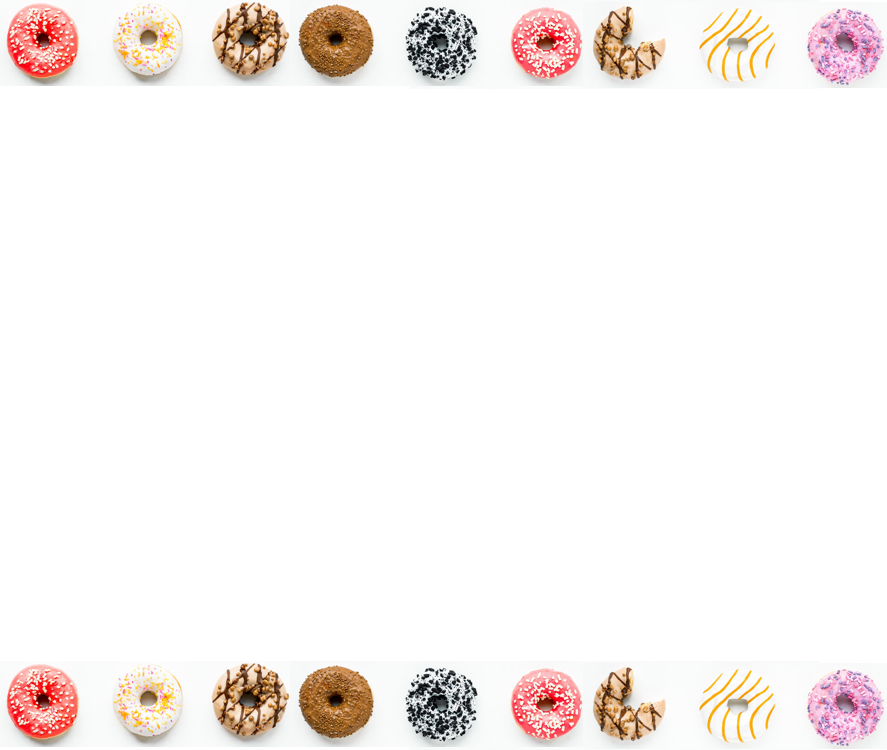
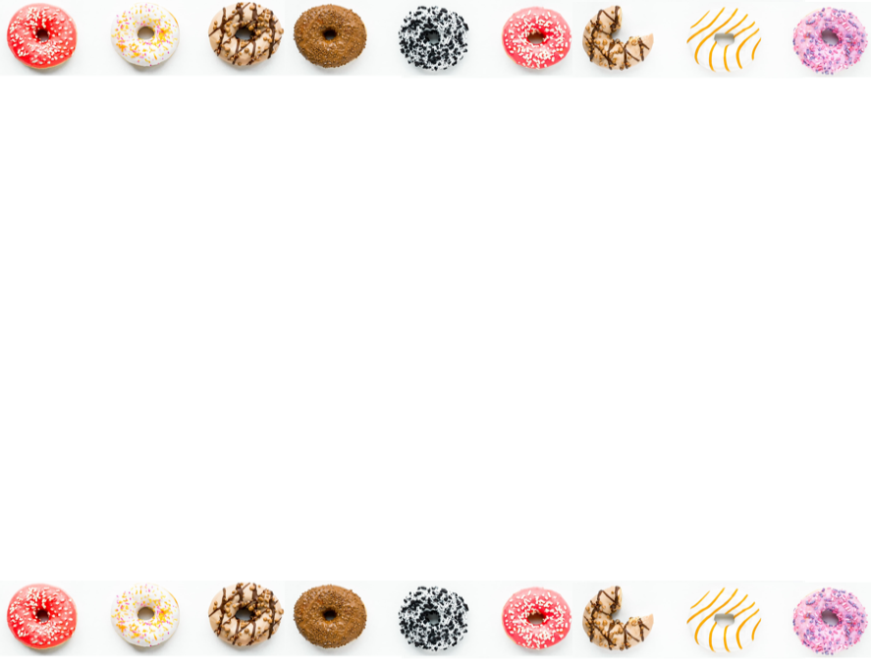
Updated

diff --git a/index.html b/index.html
@@ -9,67 +9,81 @@
     <link rel="stylesheet" href="https://cdnjs.cloudflare.com/ajax/libs/font-awesome/5.15.3/css/all.min.css" integrity="sha512-iBBXm8fW90+nuLcSKlbmrPcLa0OT92xO1BIsZ+ywDWZCvqsWgccV3gFoRBv0z+8dLJgyAHIhR35VZc2oM/gI1w==" crossorigin="anonymous" referrerpolicy="no-referrer" />
   </head>
   <body class="background" background="src/images/DonutBorder.png">
+    
     <h1> Delicious Donut Depot </h1>
     
-    <div id="mySidebar" class="sidebar">
-        <a href="javascript:void(0)" class="closebtn" onclick="closeNav()">&times;</a>
-        <a href="/index.html">Home</a>
-        <a href="/About.html">About</a>
-        <a href="/Inspiration.html">Inspiration</a>
-        <a href="/Creator.html">Creator</a>
-      </div>
-      <div id="main">
-        <button class="openbtn" onclick="openNav()">&#9776; </button>
-      </div>
-      <h2>Welcome to the donut shop!</h2>
-      <p><br /> Today we are going to be making donuts, and lots of them! </p> 
-      <p>To make donuts, click the Bake button below. (One donut per click to start)</p>
-      <p>As you make donuts, you can use them as currency to buy advantages.</p>
-      <p>Be mindful, your donuts will begin to spoil if you keep too many for too long. </p>
-      <p>There are two advantages that can be purchased.</p>
-      <ol>
-        <li>The Donut Auto Clicker</li>
-        <ul>
+      <div id="mySidebar" class="sidebar">
+          <a href="javascript:void(0)" class="closebtn" onclick="closeNav()">&times;</a>
+          <a href="/index.html">Home</a>
+          <a href="/About.html">About</a>
+          <a href="/Inspiration.html">Inspiration</a>
+          <a href="/Creator.html">Creator</a>
+        </div>
+        <div id="main">
           <br />
-          <li>This automatically clicks the Donut button once per second to help gain extra donuts.</li>
           <br />
-        </ul>
-        <li>The Donut Multiplier</li>
-        <ul>
-          <br />
-          <li>This increases the number of donuts recieved per click of the donut button.</li>
-        </ul>
-      </ol>
+          <button class="openbtn" onclick="openNav()">&#9776; </button>
+        </div>
 
-
-      <div class="container" >
-        <section>
-          <p  id="donutsMade" name="donutsMade">Donuts: 0.00</p>
-          <button class="fas fa-dot-circle donutButton"> Bake!</button>
-        </section>
-  
-        <section>
-          <p id="autoClicker" name="autoClicker" >Donut Auto Clickers Owned: 0</p>
-          <button class="buyAutoButton">Buy Auto Clicker</button>
-          <p id="priceForAuto" name="priceForAuto">Price: 100</p>
-        </section>
-  
-        <section>
-          <p id="clickMultiplier" name="clickMultiplier" >Donuts Per Click: 1</p>
-          <button class="buyclickMultiplier">Buy Donut Multiplier</button>
-          <p id="priceForMultiplier" name="priceForMultiplier">Price: 100</p>
-        </section>
-        <br />
-      </div>
+    <div class="body">
       
-      <button class="resetButton">Reset Game</button>
+        <h2>Welcome to the donut shop!</h2>
+        <p><br /> Today we are going to be making donuts, and lots of them! </p> 
+        <p>To make donuts, click the Bake button below. (One donut per click to start)</p>
+        <p>As you make donuts, you can use them as currency to buy advantages.</p>
+        <p>Be mindful, your donuts will begin to spoil if you keep too many for too long. </p>
+        <p>There are two advantages that can be purchased.</p>
+        <ol>
+          <li>The Donut Auto Clicker</li>
+          <ul>
+            <br />
+            <li>This automatically clicks the Donut button once per second to help gain extra donuts.</li>
+            <br />
+          </ul>
+          <li>The Donut Multiplier</li>
+          <ul>
+            <br />
+            <li>This increases the number of donuts recieved per click of the donut button.</li>
+          </ul>
+        </ol>
+  
+  
+        <div class="container" >
+          <section>
+            <p  id="donutsMade" name="donutsMade">Donuts: 0.00</p>
+            <button class="fas fa-dot-circle donutButton"> Bake!</button>
+          </section>
+    
+          <section>
+            <p id="autoClicker" name="autoClicker" >Donut Auto Clickers Owned: 0</p>
+            <button class="buyAutoButton">Buy Auto Clicker</button>
+            <p id="priceForAuto" name="priceForAuto">Price: 100 donuts</p>
+          </section>
+    
+          <section>
+            <p id="clickMultiplier" name="clickMultiplier" >Donuts Per Click: 1</p>
+            <button class="buyclickMultiplier">Buy Donut Multiplier</button>
+            <p id="priceForMultiplier" name="priceForMultiplier">Price: 100 donuts</p>
+          </section>
+          <br />
+        </div>
+        
+        <button class="resetButton">Reset Game</button>
+        <Footer>
+          <br />
+          <br />
+          <br />
+          <br />
+          <br />
+          &copy; Delicious Donut Depot 2021
+        </Footer>
+      
+      <script src="/src/js/DonutShop.js"></script>
+      <script src="/src/js/app.js"></script>
+      <script src="/src/js/nav.js"></script>
+    </div>
     
     
-    <script src="/src/js/DonutShop.js"></script>
-    <script src="/src/js/app.js"></script>
   </body>
-<Footer>
-  <br />
-  &copy; Fred the Baker Baking Company 2021
-</Footer>
+
 </html>

diff --git a/About.html b/About.html
@@ -21,23 +21,25 @@
         <button class="openbtn" onclick="openNav()">&#9776; </button>
       </div>
 
-      <h2>Join Us Today!</h2>
-      <p>Today, my little shop is run entirely online. Every donut is a virtually handmade and delivered to</p>
-      <p>you. You can order as many donuts as you like and we will always provide you with excellent</p>
-      <p>service and deliciousness in every <strong>Byte</strong>.</p>
+      <div class="body">
+        <h2>Join Us Today!</h2>
+        <p>Today, my little shop is run entirely online. Every donut is a virtually handmade and delivered to</p>
+        <p>you. You can order as many donuts as you like and we will always provide you with excellent</p>
+        <p>service and deliciousness in every <strong>Byte</strong>.</p>
 
-      <h2><br/>About the original owner</h2>
-      <h4><strong>SSG. Fredrick Davis</strong></h4>
-      <p>This shop hasn't always been virtual. Up until recently, the <em>Delicious Donut Depot</em> was owned by</p>
-      <p>a retired US Army Staff Sergeant named Fred Davis. He ran the shop single-handedly in a small</p>
-      <p>town in Georgia. Once he decided that he was too old to be slinging the best donuts in the</p>
-      <p>world, he knew it was time to pass his business on to a fellow Veteran. SSG. Davis gave me his</p>
-      <p>shop under the stipulation that I bring it into the virtual world.</p>
-      <p><br /><strong>So here we are...</strong></p>
+        <h2><br/>About the original owner</h2>
+        <h4><strong>SSG. Fredrick Davis</strong></h4>
+        <p>This shop hasn't always been virtual. Up until recently, the <em>Delicious Donut Depot</em> was owned by</p>
+        <p>a retired US Army Staff Sergeant named Fred Davis. He ran the shop single-handedly in a small</p>
+        <p>town in Georgia. Once he decided that he was too old to be slinging the best donuts in the</p>
+        <p>world, he knew it was time to pass his business on to a fellow Veteran. SSG. Davis gave me his</p>
+        <p>shop under the stipulation that I bring it into the virtual world.</p>
+        <p><br /><strong>So here we are...</strong></p>
+      </div>
+      
 
 
-    <script src="/src/js/DonutShop.js"></script>
-    <script src="/src/js/app.js"></script>
+      <script src="/src/js/nav.js"></script>
   </body>
 
 </html>

diff --git a/src/js/app.js b/src/js/app.js
@@ -1,14 +1,3 @@
-/* Set the width of the sidebar to 250px and the left margin of the page content to 250px */
-function openNav() {
-    document.getElementById("mySidebar").style.width = "250px";
-    document.getElementById("main").style.marginLeft = "250px";
-  }
-  
-  /* Set the width of the sidebar to 0 and the left margin of the page content to 0 */
-  function closeNav() {
-    document.getElementById("mySidebar").style.width = "0";
-    document.getElementById("main").style.marginLeft = "0";
-  }
 
   const buyDonutBtn = document.getElementsByClassName("donutButton")[0];
 
@@ -41,14 +30,14 @@ function openNav() {
   buyAutoClickBtn.addEventListener("click", function(){
     myDonut.addAutoClicker();
     currentAutoClickers.innerText ="Donut Auto Clickers Owned: " + myDonut.getAutoClickerCount();
-    currentAutoClickersPrice.innerText = "Price: " + myDonut.priceForAuto;
+    currentAutoClickersPrice.innerText = "Price: " + myDonut.priceForAuto + " donuts";
     myDonut.startClickerInterval();
   });
 
   buyDonutMultiplierBtn.addEventListener("click", function(){
     myDonut.addDonutMultiplier();
     currentDonutMultipliers.innerText ="Donuts Per Click: " + myDonut.donutsEarned;
-    currentDonutMultipliersPrice.innerText = "Price: " + myDonut.priceForMultiply;
+    currentDonutMultipliersPrice.innerText = "Price: " + myDonut.priceForMultiply + " donuts";
   });
 
   resetGameBtn.addEventListener("click", function(){
@@ -59,9 +48,9 @@ function openNav() {
   function updateDonutCount(){
     currentDonuts.innerText ="Donuts: " + myDonut.getDonutCount();
     currentAutoClickers.innerText ="Donut Auto Clickers Owned: " + myDonut.getAutoClickerCount();
-    currentAutoClickersPrice.innerText = "Price: " + myDonut.priceForAuto;
+    currentAutoClickersPrice.innerText = "Price: " + myDonut.priceForAuto + " donuts";
     currentDonutMultipliers.innerText ="Donuts Per Click: " + myDonut.donutsEarned;
-    currentDonutMultipliersPrice.innerText = "Price: " + myDonut.priceForMultiply;
+    currentDonutMultipliersPrice.innerText = "Price: " + myDonut.priceForMultiply + " donuts";
     checkAutoClickerBtn();
     checkMultiplierClickerBtn();
   }

diff --git a/src/css/style.css b/src/css/style.css
@@ -79,11 +79,20 @@
     -webkit-text-stroke-width: 1px;
     -webkit-text-stroke-color: rgb(0, 0, 0);
   }
+/* 
+  html {
+    background: url(src/images/DonutBorder.png) no-repeat center center fixed; 
+    -webkit-background-size: cover;
+    -moz-background-size: cover;
+    -o-background-size: cover;
+    background-size: cover;
+    
+  } */
 
-  body{
-    padding-top: 30px;
+    .body{
+    /* padding-top: 30px; */
     font-family: Arial;
-    width: 690px;
+    width: 609px;
     margin: auto;
     text-align: center;
     text-decoration: none;
@@ -96,6 +105,7 @@
     -webkit-text-stroke-width: 2px;
     -webkit-text-stroke-color: black;
     background-color: rgba(0, 0, 0, 0.315);
+    margin-top: 40px;
     width: 500px;
     font-size: 40px;
     border-radius: 5px;
@@ -145,6 +155,14 @@
     cursor:pointer;
   }
 
+  .donutButton:disabled, .buyAutoButton:disabled, .buyclickMultiplier:disabled, .resetButton:disabled {
+    background: rgba(196, 192, 192, 0.966);
+    color: rgba(255, 255, 255, 0.61);
+    margin: auto;
+    border-radius: 5px;
+    cursor: unset;
+  }
+
   footer {
     margin: auto;
     padding-top: 15px;
@@ -157,13 +175,13 @@
     background: radial-gradient(rgb(0 0 0 / 87%), rgba(248, 29, 29, 0.678),  transparent);*/
     /*background: linear-gradient(rgb(255 0 0 / 87%), rgb(255 165 0 / 87%), rgb(0 128 0 / 87%), rgb(0 0 255 / 87%), rgb(128 0 128 / 87%), transparent);*/
     color: rgb(0, 0, 0);
-    width: 80px;
+    width: 200px;
     text-align: center;
     padding-left: 10px; 
   }
   .background{
-    background-size: 60%;
-
+    background-size: 100%;
+    height: 975px;
   }
 
    .container{
@@ -177,7 +195,7 @@
   }
 
 #donutsMade, #autoClicker, #priceForAuto, #clickMultiplier, #priceForMultiplier{
-  padding-right: 8px;
+  padding-right: 18px;
   padding-left: 8px;
 }
 

diff --git a/Creator.html b/Creator.html
@@ -21,16 +21,17 @@
         <button class="openbtn" onclick="openNav()">&#9776; </button>
       </div>
 
-      <h2>Joshua Harper(Developer)</h2>
+      <div class="body">
+        <h2>Joshua Harper(Developer)</h2>
 
-      <h3>- Creator of this Game -</h3>
+        <h3>- Creator of this Game -</h3>
 
-      <p>Hello, and welcome to my game. I hope you have enjoyed yourself.</p>
-      <p>My name, of course, is Joshua Harper. I am software developer, aspiring to learn as much as I</p>
-      <p>can and perfect my craft. If you have enjoyed my game and would like to contact me, please do</p>
-      <p>so with any of the below methods.<br /><br />Thank You Very Much!</p>
+        <p>Hello, and welcome to my game. I hope you have enjoyed yourself.</p>
+        <p>My name, of course, is Joshua Harper. I am software developer, aspiring to learn as much as I</p>
+        <p>can and perfect my craft. If you have enjoyed my game and would like to contact me, please do</p>
+        <p>so with any of the below methods.<br /><br />Thank You Very Much!</p>
 
-      <h3><br /><br /><br /><br /><br />Contact Information</h3>
+        <h3><br /><br /><br />Contact Information</h3>
         <p>Phone Number: (216) 849-0560</p>
         <a href="mailto:joshua.b.harper7@gmail.com"> joshua.b.harper7@gmail.com</a>
         <h3>Links</h3>
@@ -39,10 +40,12 @@
             <a href="https://www.linkedin.com/in/joshua-b-harper7/" target="_blank"><img src="src/images/linkedinPNG.png" width="50px" /></a>
             <a href="https://joshuabharper7.github.io/" target="_blank"><img src="src/images/Headshot.jpg" width="50px" /></a>
         </div>
+      </div>
+
+      
 
 
-    <script src="/src/js/DonutShop.js"></script>
-    <script src="/src/js/app.js"></script>
+      <script src="/src/js/nav.js"></script>
   </body>
 
 </html>

diff --git a/Inspiration.html b/Inspiration.html
@@ -21,15 +21,18 @@
         <button class="openbtn" onclick="openNav()">&#9776; </button>
       </div>
 
-      <h2><em>Inspiration Behind The Donut</em></h2>
+      <div class="body">
+        <h2><em>Inspiration Behind The Donut</em></h2>
 
-      <h3><strong><a href="https://orteil.dashnet.org/experiments/cookie/" target= "_blank">Cookie Clicker Classic</a></strong></h3>
-      <p>The inspiration behind this Addictive game is the original virtual treat.</p>
-      <p>Cookie Clicker Classic is my inspiration and I would like to give credit where it is due.</p>
-      <p><br /><br /><br /><br /><br /><br /><br />Thank You Very Much For Playing!</p>
+        <h3><strong><a href="https://orteil.dashnet.org/experiments/cookie/" target= "_blank">Cookie Clicker Classic</a></strong></h3>
+        <p>The inspiration behind this Addictive game is the original virtual treat.</p>
+        <p>Cookie Clicker Classic is my inspiration and I would like to give credit where it is due.</p>
+        <p><br /><br /><br /><br /><br /><br /><br />Thank You Very Much For Playing!</p>
 
-    <script src="/src/js/DonutShop.js"></script>
-    <script src="/src/js/app.js"></script>
+      </div>
+
+      
+      <script src="/src/js/nav.js"></script>
   </body>
 
 </html>

diff --git a/src/js/nav.js b/src/js/nav.js
@@ -1,0 +1,11 @@
+/* Set the width of the sidebar to 250px and the left margin of the page content to 250px */
+function openNav() {
+    document.getElementById("mySidebar").style.width = "250px";
+    document.getElementById("main").style.marginLeft = "250px";
+  }
+  
+  /* Set the width of the sidebar to 0 and the left margin of the page content to 0 */
+  function closeNav() {
+    document.getElementById("mySidebar").style.width = "0";
+    document.getElementById("main").style.marginLeft = "0";
+  }

diff --git a/src/js/DonutShop.js b/src/js/DonutShop.js
@@ -8,7 +8,9 @@ class DonutShop{
         this.autoClickerCount = 0;
         this.donutMultiplierCount = 0;
         this.donutsEarned = 1;
+        clearInterval(this.clickerIntervalID);
         this.clickerIntervalID = undefined;
+        clearInterval(this.spoilIntervalID);
         this.spoilIntervalID = undefined;
         this.priceForAuto = 100;
         this.priceForMultiply = 10;
